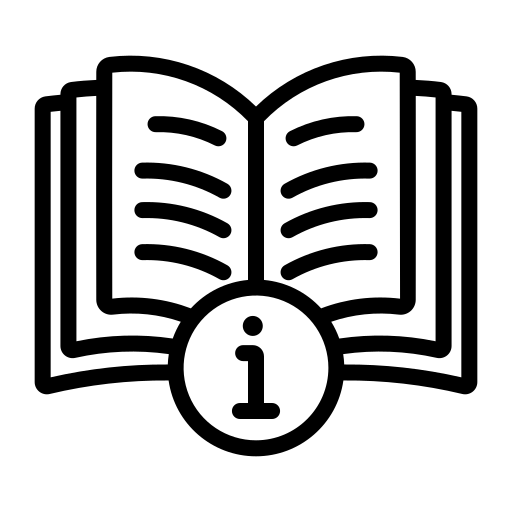
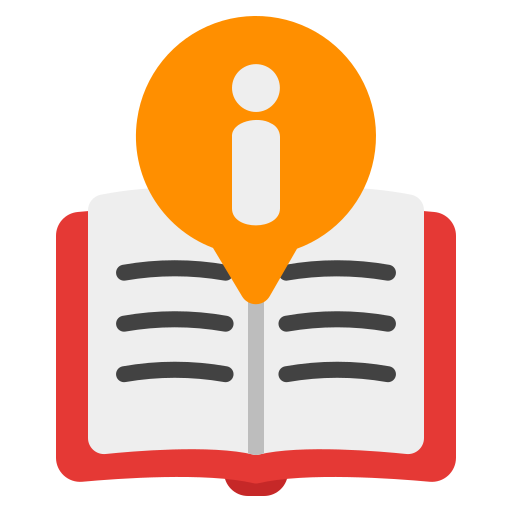
Metaforas terminadas
Las que estaban en blanco y negro las he cambiado a otras de color para que concuerden con la aplicación

diff --git a/proyecto/pregapp/src/pages/profile/Profile.js b/proyecto/pregapp/src/pages/profile/Profile.js
@@ -5,7 +5,7 @@ import '../../styles/inputs.css';
 import '../../styles/buttons.css';
 import '../../styles/globalStyles.css';
 import Title from '../../components/Text/Title';
-import Profimg from '../../images/perfil_sin_marca.png';
+import Profimg from '../../images/perfilImg.png';
 import Image from '../../components/Image/Image';
 import ButtonBack from '../../components/Button/ButtonBack';
 import DivGap4 from '../../components/divs/divGap4';
@@ -37,6 +37,7 @@ function Profile() {
         
           <Image className={"imgProfile"} src={Profimg}/>
           <DivGap4>
+          <br></br>
             <Title className="title" valueText={user.username}/>
             <p className="labelText">{user.email}</p>
             <Title className="title" valueText={'Preguntas Acertadas'}/>

diff --git a/proyecto/pregapp/src/pages/home/Home.js b/proyecto/pregapp/src/pages/home/Home.js
@@ -12,7 +12,7 @@ import PopupButton from '../../components/Button/PopupButton';
 import Title from '../../components/Text/Title';
 import AjustesImg from '../../images/ajustesImg.png';
 import JugarImg from '../../images/jugarImg.png';
-import PerfilImg from '../../images/perfil_sin_marca.png';
+import PerfilImg from '../../images/perfilImg.png';
 import instruccionesImg from '../../images/instruccionesImg.png';
 
 

diff --git a/proyecto/pregapp/src/pages/profile/Profile.css b/proyecto/pregapp/src/pages/profile/Profile.css
@@ -1,6 +1,6 @@
 .imgProfile {
-    width: 240px;
-    height: 240px;
+    width: 220px;
+    height: 220px;
     float: center;
     margin-bottom: -20px;
     
